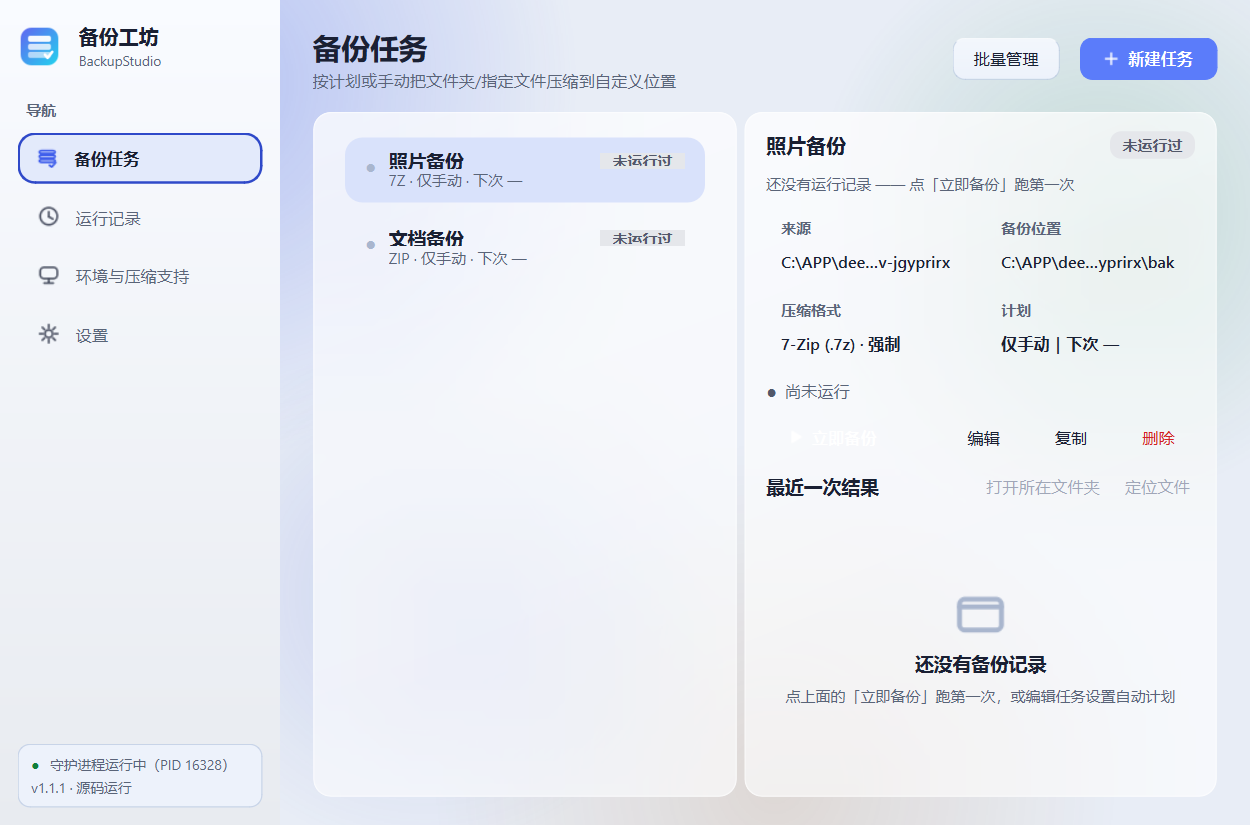
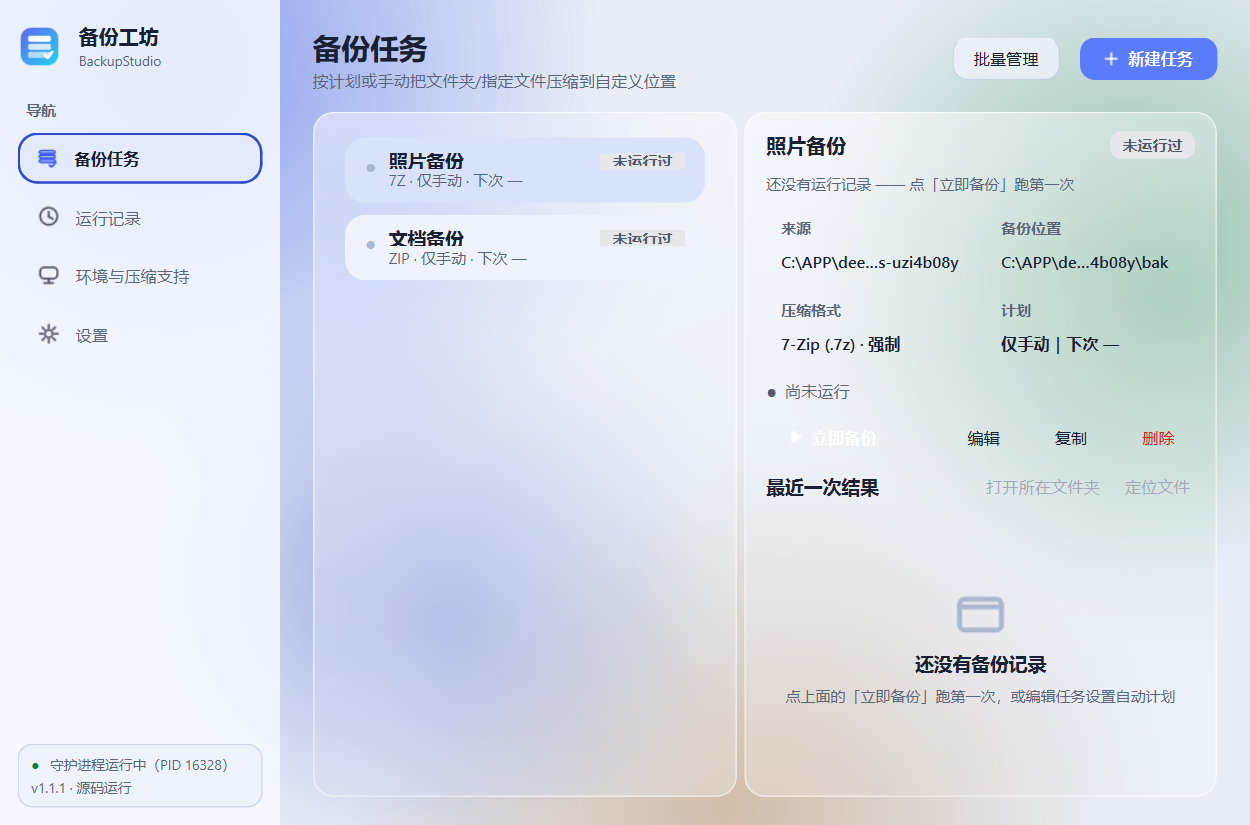
fix(ui): 拟物加重、液态玻璃重做、Material 按 M3 校正
用户反馈三点：「拟物要重一些」「玻璃液态好像完全不是的，根本不对」
「谷歌那个也要去搜索看看」。逐条改。

## 说明：本轮无法联网核实规范

`web_search` 没有 API key（`DEEPSEEK_API_KEY` 未配置），
`web_fetch` 抓 m3.material.io / wikipedia 也失败（网络受限）。
所以下列依据来自我已有的公开规范知识，**建议你按实际观感验收**，
若与官方规范有出入告诉我，我再修。

* **Material 3**：卡片无边框 + 单层阴影；按钮为**全圆角药丸**（Filled 20dp，
  左右内距 24dp）；标题字重 Medium(500)；主色 Google Blue 系
* **Apple Liquid Glass（2025）**：半透明材质 + **背景实时模糊与折射** +
  顶部镜面高光；元素浮于内容之上
* **拟物**：模拟真实材质 —— 厚边框、内/外阴影、强渐变

## 1. 拟物加重

    border      1px → 2px
    radius      9  → 7      （更硬朗）
    shadow      4  → 8
    highlight   0.35 → 0.75 （高光更亮）

底色保持暖皮革调 `#EFE9E0` / 卡片奶白 `#FAF6F0`，3D 凸起边框（左上亮/右下暗）。

## 2. 液态玻璃重做（这是真正的 bug）

**根因**：tint alpha 是 0.62 —— 模糊后的背景被 62% 白**盖住了**，
所以看起来就是"一张纯白卡片"，完全看不到折射。

修法：
* tint **0.62 → 0.20**（深色 0.26），让背景透出来
* 背景光斑 alpha 提高（0.30/0.18/0.14/0.16 → 0.55/0.40/0.32/0.38），
  折射依赖背景有色彩变化，光斑太淡等于白玻璃
* 圆角 14 → 16，阴影 10 → 12
* `Card.paintEvent` 玻璃分支补 `super().paintEvent(event)` ——
  不调用时子控件（如「立即备份」）会被父级绘制内容盖住
* `highlight` 接到边缘亮线强度

## 3. Material 按 M3 校正

* `QPushButton#Primary` 的圆角原来是写死的，现在参数化 → **药丸形生效**
* 药丸按钮内距 `8px 24px`（M3 的 24dp 左右留白）
* 输入框圆角 8 → 4（M3 的 TextField 是 4dp）
* 卡片无边框 + 单层阴影（已是）
* 标题字重 600 → 500

## 量化验证（同窗口渲染两两比像素）

    win vs mac    55.0%
    win vs 98     99.6%
    win vs skeuo  99.6%
    win vs mag    56.9%   （药丸按钮生效后 +1.9%）
    win vs glass  95.5%   （玻璃纹理更丰富：137KB → 233KB）

# 验证

**461 passed / 0 failed**
实拍：`docs/screenshots/styles/real-*.png`

diff --git a/backupstudio/gui/main_window.py b/backupstudio/gui/main_window.py
@@ -559,7 +559,9 @@ class MainWindow(QMainWindow):
         from .widgets import Card
 
         on = _st().translucent
-        alpha = 0.62 if not palette.dark else 0.55
+        # Liquid Glass：tint 必须很低（0.20/0.26），否则模糊后的背景被白色盖住，
+        # 看起来就是一张纯白卡片（实测就是这样，用户反馈"根本不对"）。
+        alpha = 0.20 if not palette.dark else 0.26
         # **只给顶层卡片上玻璃**：嵌套的 CardFlat 小格子（信息卡）数量多、
         # 面积小，给它们各自采样+模糊的收益低、代价高（实测 19 张卡
         # 让切页要十几秒）。顶层卡片负责整体质感就够了。
@@ -675,11 +677,13 @@ class _Backdrop(QWidget):
 
         w, h = self.width(), self.height()
         # 光斑配色：用主题强调色/成功色/警告色的低饱和版本
+        # **光斑必须够明显**：玻璃的折射效果完全依赖背景有明暗/色彩变化。
+        # 若光斑太淡，模糊后就是一片白 —— 那正是"玻璃看起来不对"的根因。
         spots = (
-            (int(w * 0.16), int(h * 0.10), int(max(w, h) * 0.55), pal.accent, 0.30),
-            (int(w * 0.88), int(h * 0.26), int(max(w, h) * 0.42), pal.success, 0.18),
-            (int(w * 0.62), int(h * 0.95), int(max(w, h) * 0.50), pal.warning, 0.14),
-            (int(w * 0.34), int(h * 0.72), int(max(w, h) * 0.38), pal.accent_hover, 0.16),
+            (int(w * 0.14), int(h * 0.08), int(max(w, h) * 0.62), pal.accent, 0.55),
+            (int(w * 0.90), int(h * 0.30), int(max(w, h) * 0.48), pal.success, 0.40),
+            (int(w * 0.58), int(h * 0.98), int(max(w, h) * 0.55), pal.warning, 0.32),
+            (int(w * 0.32), int(h * 0.70), int(max(w, h) * 0.42), pal.accent_hover, 0.38),
         )
         for cx, cy, r, color, alpha in spots:
             g = QRadialGradient(cx, cy, r)

diff --git a/backupstudio/gui/styles.py b/backupstudio/gui/styles.py
@@ -78,23 +78,26 @@ STYLES: dict[str, Style] = {
     ),
     "skeuo": Style(
         key="skeuo", name="拟物",
-        radius=9, radius_input=6, radius_button=7, border=1,
-        # 拟物风格要**同时**有立体边框和渐变（bevel 与 gradient 不互斥，
-        # 见 __init__.stylesheet 里的组合分支）
+        # **加重**（用户反馈"要重一些"）：边框 1→2px、圆角收小、阴影加强、
+        # 高光更强，做出厚实的材质感。
+        radius=7, radius_input=5, radius_button=6, border=2,
         bevel=True, gradient=True, translucent=False,
-        highlight=0.35, shadow=4, title_weight=700, letter_spacing=0.1,
+        highlight=0.75, shadow=8, title_weight=700, letter_spacing=0.1,
     ),
     "mag": Style(
         key="mag", name="Google Material",
-        radius=12, radius_input=8, radius_button=20, border=0,
+        # M3：卡片 12dp 圆角、**无边框**、单层阴影；按钮全圆角药丸（20dp）；
+        # 标题字重 500（M3 的 Title 用 Medium 而非 Bold）。
+        radius=12, radius_input=4, radius_button=20, border=0,
         bevel=False, gradient=False, translucent=False,
-        highlight=0.0, shadow=8, title_weight=500, letter_spacing=0.15,
+        highlight=0.0, shadow=6, title_weight=500, letter_spacing=0.15,
     ),
     "glass": Style(
         key="glass", name="液态玻璃",
-        radius=14, radius_input=9, radius_button=10, border=1,
-        bevel=False, gradient=True, translucent=True,
-        highlight=0.8, shadow=10, title_weight=600, letter_spacing=0.0,
+        # Liquid Glass：大圆角 + 半透明 + 强边缘高光 + 层叠阴影
+        radius=16, radius_input=10, radius_button=12, border=1,
+        bevel=False, gradient=False, translucent=True,
+        highlight=1.0, shadow=12, title_weight=600, letter_spacing=0.0,
     ),
 }
 

diff --git a/backupstudio/gui/__init__.py b/backupstudio/gui/__init__.py
@@ -345,6 +345,8 @@ def stylesheet(p: Palette, style: str | None = None) -> str:
         _card_border = f" border: {BW}px solid {p.border}; border-radius: {R}px;"
         _btn_border = f" border: {BW}px solid {p.border}; border-radius: {RB}px;"
 
+    # M3 药丸按钮需要更宽的内距（左右 24dp），其余风格保持 16px
+    _primary_pad = "8px 24px" if _st.key == "mag" else "7px 16px"
     _card_bg = _card_fill + _card_border
     _btn_bg = _btn_fill + _btn_border
 
@@ -395,7 +397,10 @@ def stylesheet(p: Palette, style: str | None = None) -> str:
         border-color: {p.border};
     }}
     QPushButton#Primary {{
-        background: {p.accent}; border: 1px solid {p.accent}; color: {p.accent_text}; font-weight: 600;
+        background: {p.accent}; border: {BW}px solid {p.accent};
+        color: {p.accent_text}; font-weight: 600;
+        border-radius: {RB}px;
+        padding: {_primary_pad};
     }}
     QPushButton#Primary:hover {{ background: {p.accent_hover}; border-color: {p.accent_hover}; }}
     QPushButton#Primary:focus {{

diff --git a/backupstudio/gui/widgets.py b/backupstudio/gui/widgets.py
@@ -132,11 +132,16 @@ class Card(QFrame):
         g.setColorAt(1.0, QColor(255, 255, 255, 0))
         p.fillPath(path, g)
         # 内高光边
-        p.setPen(QColor(255, 255, 255, 140 if not self._glass_dark else 60))
+        p.setPen(QColor(255, 255, 255, int(200 * self._glass_highlight)
+                        if hasattr(self, "_glass_highlight") else 180))
         p.setBrush(_Qt.BrushStyle.NoBrush)
         p.drawRoundedRect(1, 1, self.width() - 2, self.height() - 2,
                           self._glass_radius, self._glass_radius)
         p.end()
+        # **必须调用 super()**：QFrame 的默认 paintEvent 负责让子控件
+        # 正确合成到父级之上。自绘后不调 super() 会导致子控件（如
+        # 「立即备份」按钮）被父级绘制内容盖住 —— 实测只剩一团模糊影子。
+        return super().paintEvent(event)
 
     def body(self) -> QVBoxLayout:
         return self._layout
